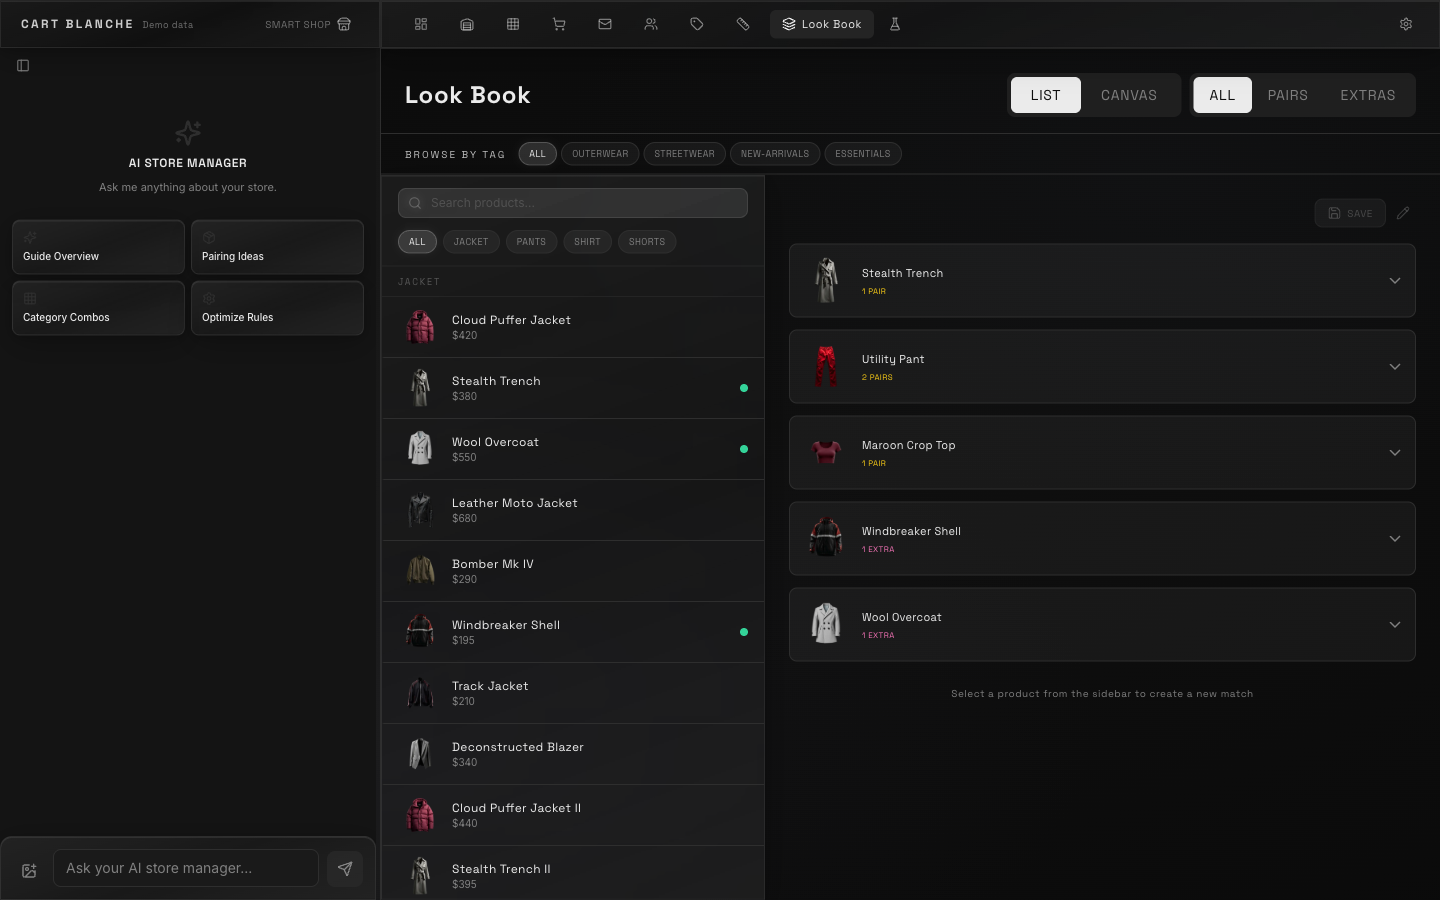
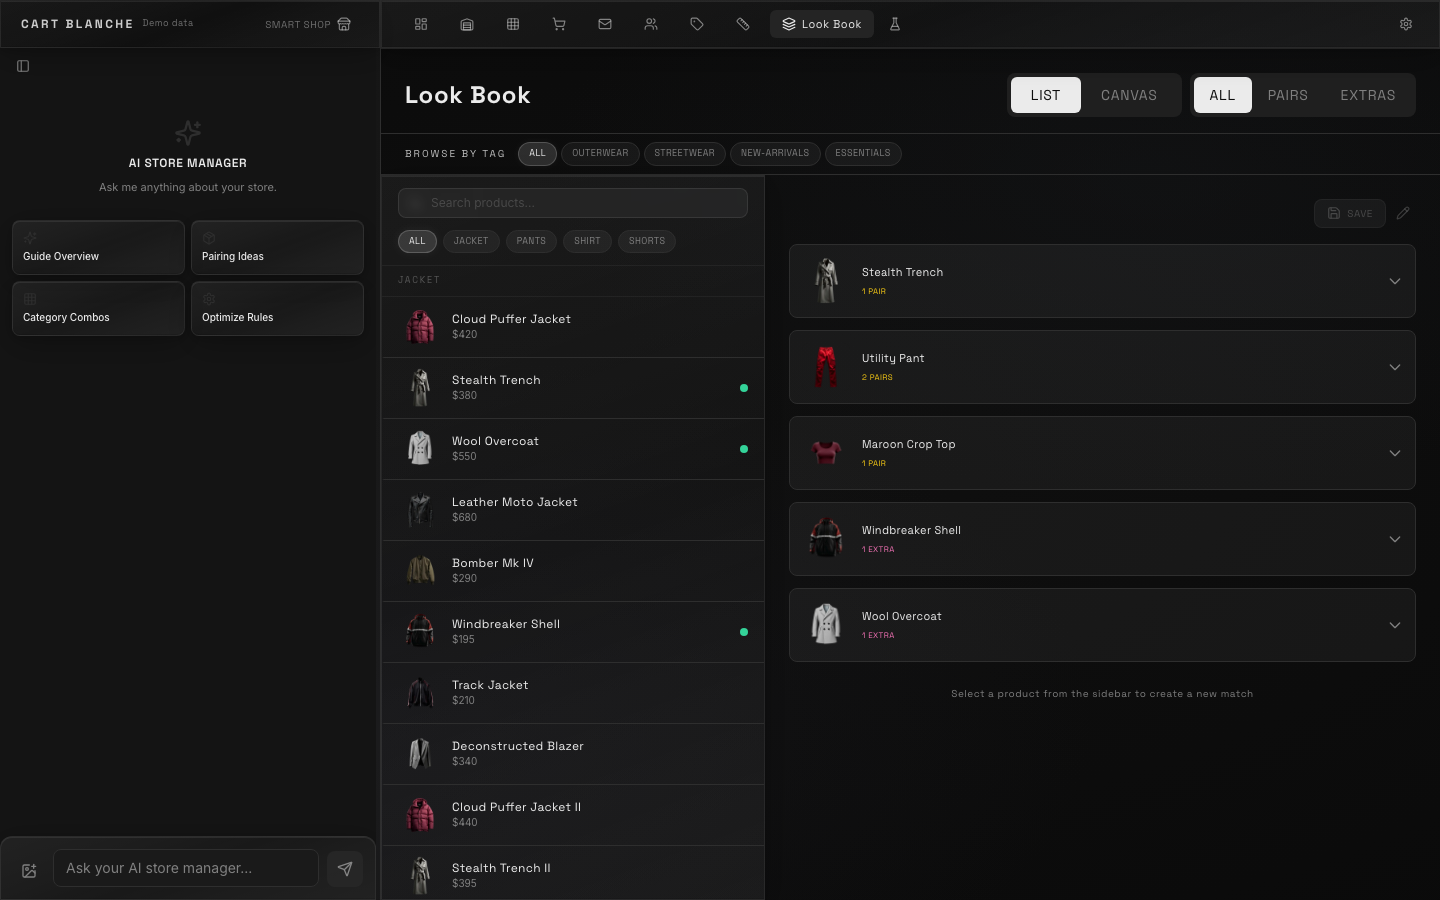
Refresh the docs and screenshots for the current build
The screenshots now show the demo storefront label, retaken from the live site. Counts, CI and the rate limits actually hit on the local stack are brought up to date.

diff --git a/EVOLUTION.md b/EVOLUTION.md
@@ -60,6 +60,7 @@ The use case: the owners of a real fashion brand explained the problem and gave 
 | Nov 1 | Leaves Lovable: a clone developed only in Claude Code, with readers bringing their own Supabase and AI key. Runs with no backend, any OpenAI-compatible provider, `SETUP.md` | `0fe3198`, `756571a`, `1dbc52d`, `99481a5` |
 | Nov 1 | Advisories, images, types and lint: no high or critical audit issues, real WebP files, chat functions type-check, lint errors from 116 to 0 | `920d7b1`, `1449e6a`, `c7c95bc`, `6af6d32` |
 | Nov 1 | Shopper signups and photos through rate limited functions, discount checks rate limited, merchant accounts invitation only | `fe19888`, `43b1f33`, `74cae19`, `6b31fea` |
+| Nov 1 | The SL template on phones, real product details kept, failed saves reported, Build a Set and the look book on the store's own products, CI | `d21bf32`, `7c074a2`, `9bf53e5`, `b901de1`, `9d2c5d4`, `8df52d2` |
 | Nov 1 | Real-store fixes: no sample catalogue on a real store, stylist on the store's own products, no invented orders, blank slugs. Phone admin, responses on Checkout and Connect Stripe, a details panel that stopped flapping | `cac1ec2`, `296d08e`, `f2af4e7`, `165ba35`, `ebd12fd`, `3c8b504`, `1444ecc` |
 
 History shape: February 495 commits, March 933, April 157, May 579. Three days hold more than half of it: March 2, February 18, May 2.
@@ -125,14 +126,17 @@ leaving Lovable → Claude Code only → bring your own Supabase and AI key → 
 | Spring | Template agent suite | 127 tests, still in the count below | Project hub note, `template-agent.test.ts` |
 | May 3 | Whole suite | 144 of 144 | Status note |
 | Nov 1, before the backend-free work | Vitest | 202 of 202 | Rerun while writing this |
-| Nov 1, tip `9eb1fb2` | Vitest, unit and component tests | 281 of 281 in 23 files: template agent 127, chat guards 31, shopper guards 18, pairing 16, demo store 14, the rest smaller | Run while writing this |
-| Nov 1, tip `9eb1fb2` | Lint, typecheck, build | Lint 0 errors, 45 warnings. `tsc` clean. Build passes | Run while writing this |
-| Nov 1, tip `9eb1fb2` | `npm audit --omit=dev` | No high or critical, 5 moderate | Run while writing this |
-| Nov 1, fresh clone of `192ef8e` | `npm ci`, lint, build, tests | All pass, 281 tests | Run while writing this |
+| Nov 1, tip `8df52d2` | Vitest, unit and component tests | 293 of 293 in 26 files: template agent 127, chat guards 31, shopper guards 18, pairing 18, demo store 14, the rest smaller | Run while writing this |
+| Nov 1, tip `8df52d2` | Lint, typecheck, build | Lint 0 errors, 52 warnings. `tsc` clean. Build passes | Run while writing this |
+| Nov 1, tip `8df52d2` | `npm audit --omit=dev` | No high or critical, 5 moderate | Run while writing this |
+| Nov 1, fresh clone of `8df52d2` | `npm ci`, lint, build, tests | All pass, 293 tests | Run while writing this |
+| Nov 1, `8df52d2` | GitHub Actions: `npm ci`, lint, typecheck, tests, build | Green | GitHub Actions |
 | Nov 1 | Real local Supabase stack | Showed every table failing with permission denied, fixed with explicit grants | `2f10bb2` |
 | Nov 1 | Security fixes on that stack, with real sign-in tokens and a fake AI provider | Storage ownership and limits, closed reads on merchants and discount codes, locked fee and Stripe columns, shopper functions and their limits, merchant signups closed, a real magic link through the local mail catcher, then signed-in writes confirmed in Postgres | Session scripts, not in this repo |
+| Nov 1 | Rate limits hit on that stack, where every caller shares one gateway IP | Stylist: the 21st request in a minute got a 429. Discount checks: the 21st in a minute got `rate_limited`. Signups and photos: the 6th in a minute got a 429. A store seeded at 300 wrong guesses an hour was blocked | Session scripts, not in this repo |
 | Nov 1 | Browser, on that stack and on the no-backend build | Storefront, all 11 admin routes, and a logged-out shopper's subscribe, waitlist, cart code, stylist and photo upload | Session scripts, not in this repo |
 | Nov 1 | `SETUP.md`, local path | Ran end to end from a fresh clone at `6243771` | Session notes |
+| Nov 1 | Product details migration, save failures, look book on real products | Embedded Postgres and unit tests | `9bf53e5`, `b901de1`, `9d2c5d4` |
 | Nov 1 | `deno check` on all 4 functions | Pass | Session notes, `c7c95bc` |
 | Nov 1 | 25 migrations on embedded Postgres with stubs | 42 role checks pass | Audit report |
 | Nov 1 | Edge functions, outbound stubbed | 16 `smartcart-chat`, 15 `smart-chat` checks pass | Audit report |

diff --git a/ESSENCE.md b/ESSENCE.md
@@ -20,8 +20,8 @@
 
 - Storefront with two templates, product detail, sizes, Build a Set, cart, discount rules, subscribe popup, all on bundled data.
 - All 11 admin routes work logged out on sample data, with no backend configured.
-- From a fresh clone of `192ef8e`, `npm ci` works, 281 unit and component tests pass, lint has 0 errors and 45 warnings, and the build passes. `npm audit` shows no high or critical issues.
-- Security work on November 1: merchant accounts are invitation only, shoppers can't write to the database or storage directly, and discount checks, signups and photos are rate limited. Those fixes were checked on a real local Supabase stack with real sign-in tokens and a fake AI provider, and a real magic link landed through the local mail catcher.
+- From a fresh clone of `8df52d2`, `npm ci` works, 293 unit and component tests pass, lint has 0 errors and 52 warnings, `tsc` is clean and the build passes. `npm audit` shows no high or critical issues. GitHub Actions runs the same checks on every push.
+- Security work on November 1: merchant accounts are invitation only, shoppers can't write to the database or storage directly, and discount checks, signups and photos are rate limited. Those fixes were checked on a real local Supabase stack with real sign-in tokens and a fake AI provider. The per-minute limits were actually hit there, and a real magic link landed through the local mail catcher.
 
 ## Where it went
 

diff --git a/README.md b/README.md
@@ -45,7 +45,7 @@ Open http://127.0.0.1:8080, then:
 2. **Run the store.** Go to `/admin`. No login. Change inventory, edit a size chart, create a discount, fulfil a waitlist entry. Nothing is saved, on purpose.
 3. **Look at the templates.** `/admin/lab` has the two storefront looks, YZ and SL.
 
-Checked on 2026-11-01 from a fresh clone of `192ef8e`: `npm ci` works, 281 unit and component tests pass, lint has 0 errors and 45 warnings, and the build passes. `npm audit` shows no high or critical issues.
+Checked on 2026-11-01 from a fresh clone of `8df52d2`: `npm ci` works, 293 unit and component tests pass, lint has 0 errors and 52 warnings, `tsc` is clean and the build passes. `npm audit` shows no high or critical issues. GitHub Actions runs the same checks on every push.
 
 ### Want the real thing?
 
